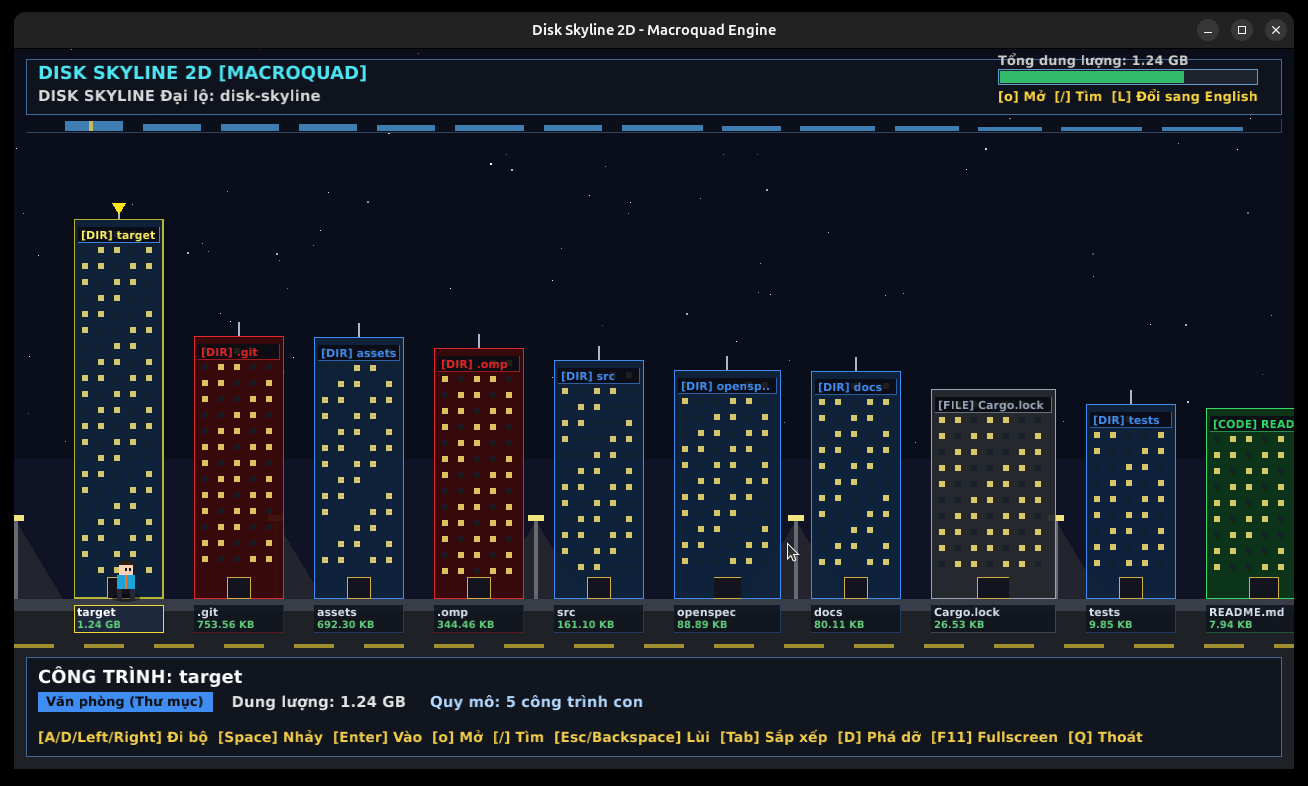
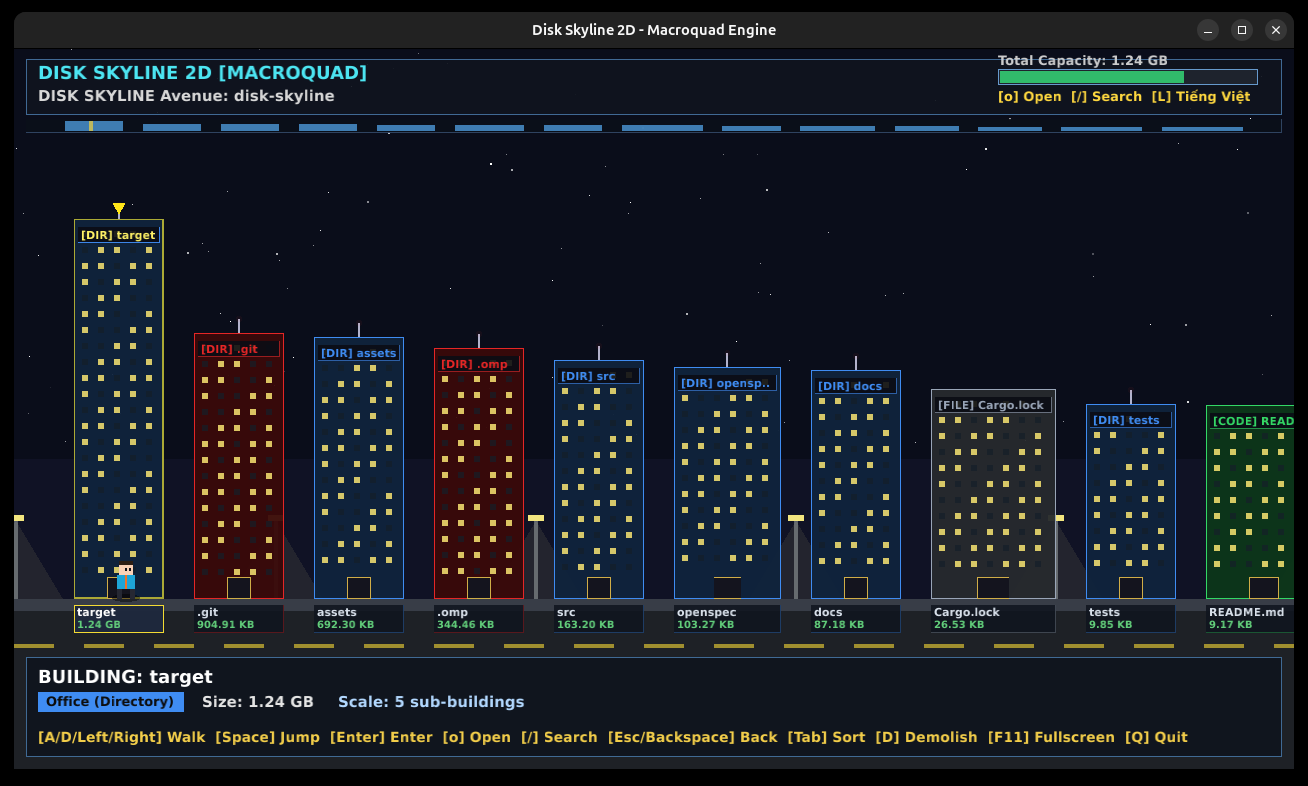
docs: update 2D preview screenshot in README to English version

diff --git a/src/gui/render.rs b/src/gui/render.rs
@@ -685,9 +685,9 @@ pub fn render_rpg_hud(
     );
 
     let lang_hint = if lang == Language::Vi {
-        "[o] Mở  [/] Tìm  [L] Đổi sang English".to_string()
+        "[o] Mở  [/] Tìm  [L] English".to_string()
     } else {
-        "[o] Open  [/] Search  [L] Switch to Vietnamese".to_string()
+        "[o] Open  [/] Search  [L] Tiếng Việt".to_string()
     };
     draw_text_f(
         &lang_hint,
